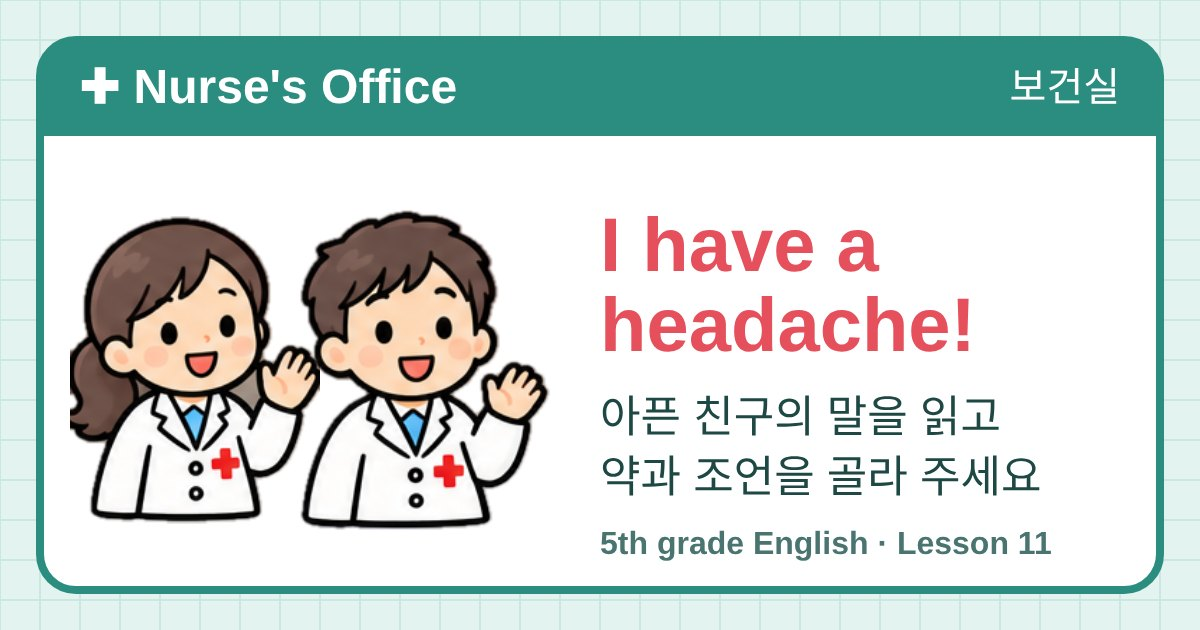
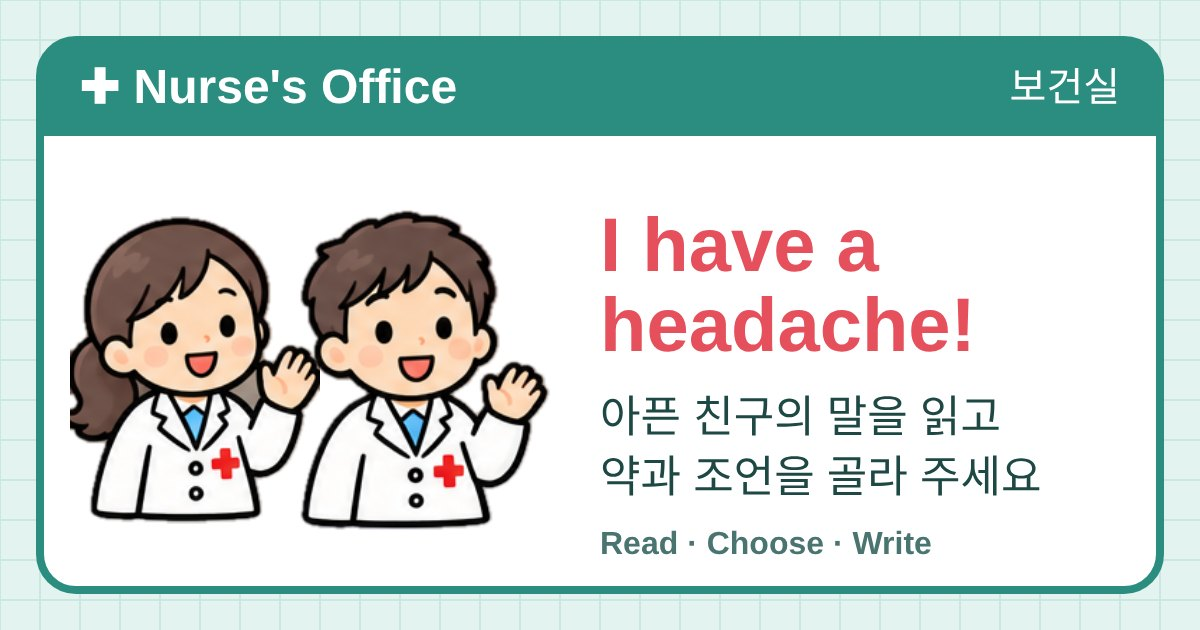
Add files via upload

Changed region(s): [[0.4933, 0.8444, 0.8942, 0.9048]]

diff --git a/index.html b/index.html
@@ -5,7 +5,7 @@
 <meta name="viewport" content="width=device-width,initial-scale=1">
 <title>Nurse's Office</title>
 <meta property="og:title" content="Nurse's Office · 보건실">
-<meta property="og:description" content="5학년 영어 11단원 I Have a Headache · 보건 선생님이 되어 읽고, 고르고, 처방해요">
+<meta property="og:description" content="I Have a Headache · 보건 선생님이 되어 읽고, 고르고, 처방해요">
 <meta property="og:image" content="https://nursesofficepb.vercel.app/og/home.jpg">
 <meta name="twitter:card" content="summary_large_image">
 <link rel="preconnect" href="https://fonts.googleapis.com">
@@ -475,7 +475,7 @@ th{white-space:nowrap;font-family:"Jua";font-weight:400;font-size:17px;color:var
 <script>
 /* =========================================================
    Nurse's Office (보건실)
-   5학년 영어 11단원 I Have a Headache · 만든 이: Tr. Olivia
+   Nurse's Office · 만든 이: Tr. Olivia
    ========================================================= */
 /* ---------- data ---------- */
 const SYM = {
@@ -704,7 +704,7 @@ function home() {
           <button class="ghost ${boardOpen() ? '' : 'shut'}" onclick="boardGate(acSetup)"><span class="em">${boardOpen() ? '🎭' : '🔒'}</span><span>몸으로 말해요 <span class="eni">Act It Out</span><small>친구들의 몸짓을 보고 영어 문장으로 맞혀요<br>Watch and guess the sentence in English</small></span></button>` : ''}
           <button class="red" onclick="writeHub('patient')"><span class="em">📋</span><span>보건실 문진표 <span class="eni">Patient Forms</span><small>문진표를 쓰고, 패들렛에서 친구에게 처방해 줘요<br>Write a form and reply to friends on Padlet</small></span></button>
         </div>
-        <div class="credit">5학년 영어 11. I Have a Headache · 만든 이 Tr. Olivia</div>
+        <div class="credit">만든 이 Tr. Olivia</div>
         <div class="center" style="margin-top:18px">${boardOpen() ? `<button class="ghost small teacher-btn" onclick="guide()">🗂 선생님 안내 · Guide</button><button class="ghost small teacher-btn" style="margin-left:8px" onclick="showQR()">📱 학생용 QR</button>` : ''}
           ${boardOpen() ? `<button class="ghost small teacher-btn" style="margin-left:8px" onclick="boardLock()">🔒 칠판 활동 잠그기 · Lock</button>` : ''}</div>
       </div>
@@ -1053,7 +1053,7 @@ function guide() {
       <p class="muted">패들렛 게시자 이름은 번호나 별명으로 쓰게 하거나, 패들렛의 익명 게시 설정을 쓰면 개인정보를 더 줄일 수 있어요.</p>
       <div class="row" style="margin-top:10px"><button onclick="showQR()">📱 학생용 QR 코드</button><button class="ghost" onclick="boardLock()">🔒 이 기기 칠판 활동 잠그기</button>
         <button class="ghost" onclick="uiConfirm('이 기기에 남은 문진표와 쓰던 글을 지울까요?\\nClear saved forms on this device?', clearLocal)">🧹 이 기기 글 지우기</button></div>
-      <p class="credit" style="margin-top:14px">5학년 영어 11. I Have a Headache · 만든 이 Tr. Olivia</p>
+      <p class="credit" style="margin-top:14px">만든 이 Tr. Olivia</p>
     </div></div>`;
 }
 function clearLocal() { try { Object.keys(localStorage).filter(k => k.startsWith('hn_pub_')).forEach(k => localStorage.removeItem(k)); } catch (e) {} toast('지웠어요\nCleared.'); }

diff --git a/p/alien.html b/p/alien.html
@@ -478,7 +478,7 @@ th{white-space:nowrap;font-family:"Jua";font-weight:400;font-size:17px;color:var
 <script>
 /* =========================================================
    Nurse's Office (보건실)
-   5학년 영어 11단원 I Have a Headache · 만든 이: Tr. Olivia
+   Nurse's Office · 만든 이: Tr. Olivia
    ========================================================= */
 /* ---------- data ---------- */
 const SYM = {
@@ -707,7 +707,7 @@ function home() {
           <button class="ghost ${boardOpen() ? '' : 'shut'}" onclick="boardGate(acSetup)"><span class="em">${boardOpen() ? '🎭' : '🔒'}</span><span>몸으로 말해요 <span class="eni">Act It Out</span><small>친구들의 몸짓을 보고 영어 문장으로 맞혀요<br>Watch and guess the sentence in English</small></span></button>` : ''}
           <button class="red" onclick="writeHub('patient')"><span class="em">📋</span><span>보건실 문진표 <span class="eni">Patient Forms</span><small>문진표를 쓰고, 패들렛에서 친구에게 처방해 줘요<br>Write a form and reply to friends on Padlet</small></span></button>
         </div>
-        <div class="credit">5학년 영어 11. I Have a Headache · 만든 이 Tr. Olivia</div>
+        <div class="credit">만든 이 Tr. Olivia</div>
         <div class="center" style="margin-top:18px">${boardOpen() ? `<button class="ghost small teacher-btn" onclick="guide()">🗂 선생님 안내 · Guide</button><button class="ghost small teacher-btn" style="margin-left:8px" onclick="showQR()">📱 학생용 QR</button>` : ''}
           ${boardOpen() ? `<button class="ghost small teacher-btn" style="margin-left:8px" onclick="boardLock()">🔒 칠판 활동 잠그기 · Lock</button>` : ''}</div>
       </div>
@@ -1056,7 +1056,7 @@ function guide() {
       <p class="muted">패들렛 게시자 이름은 번호나 별명으로 쓰게 하거나, 패들렛의 익명 게시 설정을 쓰면 개인정보를 더 줄일 수 있어요.</p>
       <div class="row" style="margin-top:10px"><button onclick="showQR()">📱 학생용 QR 코드</button><button class="ghost" onclick="boardLock()">🔒 이 기기 칠판 활동 잠그기</button>
         <button class="ghost" onclick="uiConfirm('이 기기에 남은 문진표와 쓰던 글을 지울까요?\\nClear saved forms on this device?', clearLocal)">🧹 이 기기 글 지우기</button></div>
-      <p class="credit" style="margin-top:14px">5학년 영어 11. I Have a Headache · 만든 이 Tr. Olivia</p>
+      <p class="credit" style="margin-top:14px">만든 이 Tr. Olivia</p>
     </div></div>`;
 }
 function clearLocal() { try { Object.keys(localStorage).filter(k => k.startsWith('hn_pub_')).forEach(k => localStorage.removeItem(k)); } catch (e) {} toast('지웠어요\nCleared.'); }

diff --git a/p/cook.html b/p/cook.html
@@ -478,7 +478,7 @@ th{white-space:nowrap;font-family:"Jua";font-weight:400;font-size:17px;color:var
 <script>
 /* =========================================================
    Nurse's Office (보건실)
-   5학년 영어 11단원 I Have a Headache · 만든 이: Tr. Olivia
+   Nurse's Office · 만든 이: Tr. Olivia
    ========================================================= */
 /* ---------- data ---------- */
 const SYM = {
@@ -707,7 +707,7 @@ function home() {
           <button class="ghost ${boardOpen() ? '' : 'shut'}" onclick="boardGate(acSetup)"><span class="em">${boardOpen() ? '🎭' : '🔒'}</span><span>몸으로 말해요 <span class="eni">Act It Out</span><small>친구들의 몸짓을 보고 영어 문장으로 맞혀요<br>Watch and guess the sentence in English</small></span></button>` : ''}
           <button class="red" onclick="writeHub('patient')"><span class="em">📋</span><span>보건실 문진표 <span class="eni">Patient Forms</span><small>문진표를 쓰고, 패들렛에서 친구에게 처방해 줘요<br>Write a form and reply to friends on Padlet</small></span></button>
         </div>
-        <div class="credit">5학년 영어 11. I Have a Headache · 만든 이 Tr. Olivia</div>
+        <div class="credit">만든 이 Tr. Olivia</div>
         <div class="center" style="margin-top:18px">${boardOpen() ? `<button class="ghost small teacher-btn" onclick="guide()">🗂 선생님 안내 · Guide</button><button class="ghost small teacher-btn" style="margin-left:8px" onclick="showQR()">📱 학생용 QR</button>` : ''}
           ${boardOpen() ? `<button class="ghost small teacher-btn" style="margin-left:8px" onclick="boardLock()">🔒 칠판 활동 잠그기 · Lock</button>` : ''}</div>
       </div>
@@ -1056,7 +1056,7 @@ function guide() {
       <p class="muted">패들렛 게시자 이름은 번호나 별명으로 쓰게 하거나, 패들렛의 익명 게시 설정을 쓰면 개인정보를 더 줄일 수 있어요.</p>
       <div class="row" style="margin-top:10px"><button onclick="showQR()">📱 학생용 QR 코드</button><button class="ghost" onclick="boardLock()">🔒 이 기기 칠판 활동 잠그기</button>
         <button class="ghost" onclick="uiConfirm('이 기기에 남은 문진표와 쓰던 글을 지울까요?\\nClear saved forms on this device?', clearLocal)">🧹 이 기기 글 지우기</button></div>
-      <p class="credit" style="margin-top:14px">5학년 영어 11. I Have a Headache · 만든 이 Tr. Olivia</p>
+      <p class="credit" style="margin-top:14px">만든 이 Tr. Olivia</p>
     </div></div>`;
 }
 function clearLocal() { try { Object.keys(localStorage).filter(k => k.startsWith('hn_pub_')).forEach(k => localStorage.removeItem(k)); } catch (e) {} toast('지웠어요\nCleared.'); }

diff --git a/p/dino.html b/p/dino.html
@@ -478,7 +478,7 @@ th{white-space:nowrap;font-family:"Jua";font-weight:400;font-size:17px;color:var
 <script>
 /* =========================================================
    Nurse's Office (보건실)
-   5학년 영어 11단원 I Have a Headache · 만든 이: Tr. Olivia
+   Nurse's Office · 만든 이: Tr. Olivia
    ========================================================= */
 /* ---------- data ---------- */
 const SYM = {
@@ -707,7 +707,7 @@ function home() {
           <button class="ghost ${boardOpen() ? '' : 'shut'}" onclick="boardGate(acSetup)"><span class="em">${boardOpen() ? '🎭' : '🔒'}</span><span>몸으로 말해요 <span class="eni">Act It Out</span><small>친구들의 몸짓을 보고 영어 문장으로 맞혀요<br>Watch and guess the sentence in English</small></span></button>` : ''}
           <button class="red" onclick="writeHub('patient')"><span class="em">📋</span><span>보건실 문진표 <span class="eni">Patient Forms</span><small>문진표를 쓰고, 패들렛에서 친구에게 처방해 줘요<br>Write a form and reply to friends on Padlet</small></span></button>
         </div>
-        <div class="credit">5학년 영어 11. I Have a Headache · 만든 이 Tr. Olivia</div>
+        <div class="credit">만든 이 Tr. Olivia</div>
         <div class="center" style="margin-top:18px">${boardOpen() ? `<button class="ghost small teacher-btn" onclick="guide()">🗂 선생님 안내 · Guide</button><button class="ghost small teacher-btn" style="margin-left:8px" onclick="showQR()">📱 학생용 QR</button>` : ''}
           ${boardOpen() ? `<button class="ghost small teacher-btn" style="margin-left:8px" onclick="boardLock()">🔒 칠판 활동 잠그기 · Lock</button>` : ''}</div>
       </div>
@@ -1056,7 +1056,7 @@ function guide() {
       <p class="muted">패들렛 게시자 이름은 번호나 별명으로 쓰게 하거나, 패들렛의 익명 게시 설정을 쓰면 개인정보를 더 줄일 수 있어요.</p>
       <div class="row" style="margin-top:10px"><button onclick="showQR()">📱 학생용 QR 코드</button><button class="ghost" onclick="boardLock()">🔒 이 기기 칠판 활동 잠그기</button>
         <button class="ghost" onclick="uiConfirm('이 기기에 남은 문진표와 쓰던 글을 지울까요?\\nClear saved forms on this device?', clearLocal)">🧹 이 기기 글 지우기</button></div>
-      <p class="credit" style="margin-top:14px">5학년 영어 11. I Have a Headache · 만든 이 Tr. Olivia</p>
+      <p class="credit" style="margin-top:14px">만든 이 Tr. Olivia</p>
     </div></div>`;
 }
 function clearLocal() { try { Object.keys(localStorage).filter(k => k.startsWith('hn_pub_')).forEach(k => localStorage.removeItem(k)); } catch (e) {} toast('지웠어요\nCleared.'); }

diff --git a/p/ghost.html b/p/ghost.html
@@ -478,7 +478,7 @@ th{white-space:nowrap;font-family:"Jua";font-weight:400;font-size:17px;color:var
 <script>
 /* =========================================================
    Nurse's Office (보건실)
-   5학년 영어 11단원 I Have a Headache · 만든 이: Tr. Olivia
+   Nurse's Office · 만든 이: Tr. Olivia
    ========================================================= */
 /* ---------- data ---------- */
 const SYM = {
@@ -707,7 +707,7 @@ function home() {
           <button class="ghost ${boardOpen() ? '' : 'shut'}" onclick="boardGate(acSetup)"><span class="em">${boardOpen() ? '🎭' : '🔒'}</span><span>몸으로 말해요 <span class="eni">Act It Out</span><small>친구들의 몸짓을 보고 영어 문장으로 맞혀요<br>Watch and guess the sentence in English</small></span></button>` : ''}
           <button class="red" onclick="writeHub('patient')"><span class="em">📋</span><span>보건실 문진표 <span class="eni">Patient Forms</span><small>문진표를 쓰고, 패들렛에서 친구에게 처방해 줘요<br>Write a form and reply to friends on Padlet</small></span></button>
         </div>
-        <div class="credit">5학년 영어 11. I Have a Headache · 만든 이 Tr. Olivia</div>
+        <div class="credit">만든 이 Tr. Olivia</div>
         <div class="center" style="margin-top:18px">${boardOpen() ? `<button class="ghost small teacher-btn" onclick="guide()">🗂 선생님 안내 · Guide</button><button class="ghost small teacher-btn" style="margin-left:8px" onclick="showQR()">📱 학생용 QR</button>` : ''}
           ${boardOpen() ? `<button class="ghost small teacher-btn" style="margin-left:8px" onclick="boardLock()">🔒 칠판 활동 잠그기 · Lock</button>` : ''}</div>
       </div>
@@ -1056,7 +1056,7 @@ function guide() {
       <p class="muted">패들렛 게시자 이름은 번호나 별명으로 쓰게 하거나, 패들렛의 익명 게시 설정을 쓰면 개인정보를 더 줄일 수 있어요.</p>
       <div class="row" style="margin-top:10px"><button onclick="showQR()">📱 학생용 QR 코드</button><button class="ghost" onclick="boardLock()">🔒 이 기기 칠판 활동 잠그기</button>
         <button class="ghost" onclick="uiConfirm('이 기기에 남은 문진표와 쓰던 글을 지울까요?\\nClear saved forms on this device?', clearLocal)">🧹 이 기기 글 지우기</button></div>
-      <p class="credit" style="margin-top:14px">5학년 영어 11. I Have a Headache · 만든 이 Tr. Olivia</p>
+      <p class="credit" style="margin-top:14px">만든 이 Tr. Olivia</p>
     </div></div>`;
 }
 function clearLocal() { try { Object.keys(localStorage).filter(k => k.startsWith('hn_pub_')).forEach(k => localStorage.removeItem(k)); } catch (e) {} toast('지웠어요\nCleared.'); }

diff --git a/p/hero.html b/p/hero.html
@@ -478,7 +478,7 @@ th{white-space:nowrap;font-family:"Jua";font-weight:400;font-size:17px;color:var
 <script>
 /* =========================================================
    Nurse's Office (보건실)
-   5학년 영어 11단원 I Have a Headache · 만든 이: Tr. Olivia
+   Nurse's Office · 만든 이: Tr. Olivia
    ========================================================= */
 /* ---------- data ---------- */
 const SYM = {
@@ -707,7 +707,7 @@ function home() {
           <button class="ghost ${boardOpen() ? '' : 'shut'}" onclick="boardGate(acSetup)"><span class="em">${boardOpen() ? '🎭' : '🔒'}</span><span>몸으로 말해요 <span class="eni">Act It Out</span><small>친구들의 몸짓을 보고 영어 문장으로 맞혀요<br>Watch and guess the sentence in English</small></span></button>` : ''}
           <button class="red" onclick="writeHub('patient')"><span class="em">📋</span><span>보건실 문진표 <span class="eni">Patient Forms</span><small>문진표를 쓰고, 패들렛에서 친구에게 처방해 줘요<br>Write a form and reply to friends on Padlet</small></span></button>
         </div>
-        <div class="credit">5학년 영어 11. I Have a Headache · 만든 이 Tr. Olivia</div>
+        <div class="credit">만든 이 Tr. Olivia</div>
         <div class="center" style="margin-top:18px">${boardOpen() ? `<button class="ghost small teacher-btn" onclick="guide()">🗂 선생님 안내 · Guide</button><button class="ghost small teacher-btn" style="margin-left:8px" onclick="showQR()">📱 학생용 QR</button>` : ''}
           ${boardOpen() ? `<button class="ghost small teacher-btn" style="margin-left:8px" onclick="boardLock()">🔒 칠판 활동 잠그기 · Lock</button>` : ''}</div>
       </div>
@@ -1056,7 +1056,7 @@ function guide() {
       <p class="muted">패들렛 게시자 이름은 번호나 별명으로 쓰게 하거나, 패들렛의 익명 게시 설정을 쓰면 개인정보를 더 줄일 수 있어요.</p>
       <div class="row" style="margin-top:10px"><button onclick="showQR()">📱 학생용 QR 코드</button><button class="ghost" onclick="boardLock()">🔒 이 기기 칠판 활동 잠그기</button>
         <button class="ghost" onclick="uiConfirm('이 기기에 남은 문진표와 쓰던 글을 지울까요?\\nClear saved forms on this device?', clearLocal)">🧹 이 기기 글 지우기</button></div>
-      <p class="credit" style="margin-top:14px">5학년 영어 11. I Have a Headache · 만든 이 Tr. Olivia</p>
+      <p class="credit" style="margin-top:14px">만든 이 Tr. Olivia</p>
     </div></div>`;
 }
 function clearLocal() { try { Object.keys(localStorage).filter(k => k.startsWith('hn_pub_')).forEach(k => localStorage.removeItem(k)); } catch (e) {} toast('지웠어요\nCleared.'); }

diff --git a/p/kid1.html b/p/kid1.html
@@ -478,7 +478,7 @@ th{white-space:nowrap;font-family:"Jua";font-weight:400;font-size:17px;color:var
 <script>
 /* =========================================================
    Nurse's Office (보건실)
-   5학년 영어 11단원 I Have a Headache · 만든 이: Tr. Olivia
+   Nurse's Office · 만든 이: Tr. Olivia
    ========================================================= */
 /* ---------- data ---------- */
 const SYM = {
@@ -707,7 +707,7 @@ function home() {
           <button class="ghost ${boardOpen() ? '' : 'shut'}" onclick="boardGate(acSetup)"><span class="em">${boardOpen() ? '🎭' : '🔒'}</span><span>몸으로 말해요 <span class="eni">Act It Out</span><small>친구들의 몸짓을 보고 영어 문장으로 맞혀요<br>Watch and guess the sentence in English</small></span></button>` : ''}
           <button class="red" onclick="writeHub('patient')"><span class="em">📋</span><span>보건실 문진표 <span class="eni">Patient Forms</span><small>문진표를 쓰고, 패들렛에서 친구에게 처방해 줘요<br>Write a form and reply to friends on Padlet</small></span></button>
         </div>
-        <div class="credit">5학년 영어 11. I Have a Headache · 만든 이 Tr. Olivia</div>
+        <div class="credit">만든 이 Tr. Olivia</div>
         <div class="center" style="margin-top:18px">${boardOpen() ? `<button class="ghost small teacher-btn" onclick="guide()">🗂 선생님 안내 · Guide</button><button class="ghost small teacher-btn" style="margin-left:8px" onclick="showQR()">📱 학생용 QR</button>` : ''}
           ${boardOpen() ? `<button class="ghost small teacher-btn" style="margin-left:8px" onclick="boardLock()">🔒 칠판 활동 잠그기 · Lock</button>` : ''}</div>
       </div>
@@ -1056,7 +1056,7 @@ function guide() {
       <p class="muted">패들렛 게시자 이름은 번호나 별명으로 쓰게 하거나, 패들렛의 익명 게시 설정을 쓰면 개인정보를 더 줄일 수 있어요.</p>
       <div class="row" style="margin-top:10px"><button onclick="showQR()">📱 학생용 QR 코드</button><button class="ghost" onclick="boardLock()">🔒 이 기기 칠판 활동 잠그기</button>
         <button class="ghost" onclick="uiConfirm('이 기기에 남은 문진표와 쓰던 글을 지울까요?\\nClear saved forms on this device?', clearLocal)">🧹 이 기기 글 지우기</button></div>
-      <p class="credit" style="margin-top:14px">5학년 영어 11. I Have a Headache · 만든 이 Tr. Olivia</p>
+      <p class="credit" style="margin-top:14px">만든 이 Tr. Olivia</p>
     </div></div>`;
 }
 function clearLocal() { try { Object.keys(localStorage).filter(k => k.startsWith('hn_pub_')).forEach(k => localStorage.removeItem(k)); } catch (e) {} toast('지웠어요\nCleared.'); }

diff --git a/p/kid2.html b/p/kid2.html
@@ -478,7 +478,7 @@ th{white-space:nowrap;font-family:"Jua";font-weight:400;font-size:17px;color:var
 <script>
 /* =========================================================
    Nurse's Office (보건실)
-   5학년 영어 11단원 I Have a Headache · 만든 이: Tr. Olivia
+   Nurse's Office · 만든 이: Tr. Olivia
    ========================================================= */
 /* ---------- data ---------- */
 const SYM = {
@@ -707,7 +707,7 @@ function home() {
           <button class="ghost ${boardOpen() ? '' : 'shut'}" onclick="boardGate(acSetup)"><span class="em">${boardOpen() ? '🎭' : '🔒'}</span><span>몸으로 말해요 <span class="eni">Act It Out</span><small>친구들의 몸짓을 보고 영어 문장으로 맞혀요<br>Watch and guess the sentence in English</small></span></button>` : ''}
           <button class="red" onclick="writeHub('patient')"><span class="em">📋</span><span>보건실 문진표 <span class="eni">Patient Forms</span><small>문진표를 쓰고, 패들렛에서 친구에게 처방해 줘요<br>Write a form and reply to friends on Padlet</small></span></button>
         </div>
-        <div class="credit">5학년 영어 11. I Have a Headache · 만든 이 Tr. Olivia</div>
+        <div class="credit">만든 이 Tr. Olivia</div>
         <div class="center" style="margin-top:18px">${boardOpen() ? `<button class="ghost small teacher-btn" onclick="guide()">🗂 선생님 안내 · Guide</button><button class="ghost small teacher-btn" style="margin-left:8px" onclick="showQR()">📱 학생용 QR</button>` : ''}
           ${boardOpen() ? `<button class="ghost small teacher-btn" style="margin-left:8px" onclick="boardLock()">🔒 칠판 활동 잠그기 · Lock</button>` : ''}</div>
       </div>
@@ -1056,7 +1056,7 @@ function guide() {
       <p class="muted">패들렛 게시자 이름은 번호나 별명으로 쓰게 하거나, 패들렛의 익명 게시 설정을 쓰면 개인정보를 더 줄일 수 있어요.</p>
       <div class="row" style="margin-top:10px"><button onclick="showQR()">📱 학생용 QR 코드</button><button class="ghost" onclick="boardLock()">🔒 이 기기 칠판 활동 잠그기</button>
         <button class="ghost" onclick="uiConfirm('이 기기에 남은 문진표와 쓰던 글을 지울까요?\\nClear saved forms on this device?', clearLocal)">🧹 이 기기 글 지우기</button></div>
-      <p class="credit" style="margin-top:14px">5학년 영어 11. I Have a Headache · 만든 이 Tr. Olivia</p>
+      <p class="credit" style="margin-top:14px">만든 이 Tr. Olivia</p>
     </div></div>`;
 }
 function clearLocal() { try { Object.keys(localStorage).filter(k => k.startsWith('hn_pub_')).forEach(k => localStorage.removeItem(k)); } catch (e) {} toast('지웠어요\nCleared.'); }

diff --git a/p/kid3.html b/p/kid3.html
@@ -478,7 +478,7 @@ th{white-space:nowrap;font-family:"Jua";font-weight:400;font-size:17px;color:var
 <script>
 /* =========================================================
    Nurse's Office (보건실)
-   5학년 영어 11단원 I Have a Headache · 만든 이: Tr. Olivia
+   Nurse's Office · 만든 이: Tr. Olivia
    ========================================================= */
 /* ---------- data ---------- */
 const SYM = {
@@ -707,7 +707,7 @@ function home() {
           <button class="ghost ${boardOpen() ? '' : 'shut'}" onclick="boardGate(acSetup)"><span class="em">${boardOpen() ? '🎭' : '🔒'}</span><span>몸으로 말해요 <span class="eni">Act It Out</span><small>친구들의 몸짓을 보고 영어 문장으로 맞혀요<br>Watch and guess the sentence in English</small></span></button>` : ''}
           <button class="red" onclick="writeHub('patient')"><span class="em">📋</span><span>보건실 문진표 <span class="eni">Patient Forms</span><small>문진표를 쓰고, 패들렛에서 친구에게 처방해 줘요<br>Write a form and reply to friends on Padlet</small></span></button>
         </div>
-        <div class="credit">5학년 영어 11. I Have a Headache · 만든 이 Tr. Olivia</div>
+        <div class="credit">만든 이 Tr. Olivia</div>
         <div class="center" style="margin-top:18px">${boardOpen() ? `<button class="ghost small teacher-btn" onclick="guide()">🗂 선생님 안내 · Guide</button><button class="ghost small teacher-btn" style="margin-left:8px" onclick="showQR()">📱 학생용 QR</button>` : ''}
           ${boardOpen() ? `<button class="ghost small teacher-btn" style="margin-left:8px" onclick="boardLock()">🔒 칠판 활동 잠그기 · Lock</button>` : ''}</div>
       </div>
@@ -1056,7 +1056,7 @@ function guide() {
       <p class="muted">패들렛 게시자 이름은 번호나 별명으로 쓰게 하거나, 패들렛의 익명 게시 설정을 쓰면 개인정보를 더 줄일 수 있어요.</p>
       <div class="row" style="margin-top:10px"><button onclick="showQR()">📱 학생용 QR 코드</button><button class="ghost" onclick="boardLock()">🔒 이 기기 칠판 활동 잠그기</button>
         <button class="ghost" onclick="uiConfirm('이 기기에 남은 문진표와 쓰던 글을 지울까요?\\nClear saved forms on this device?', clearLocal)">🧹 이 기기 글 지우기</button></div>
-      <p class="credit" style="margin-top:14px">5학년 영어 11. I Have a Headache · 만든 이 Tr. Olivia</p>
+      <p class="credit" style="margin-top:14px">만든 이 Tr. Olivia</p>
     </div></div>`;
 }
 function clearLocal() { try { Object.keys(localStorage).filter(k => k.startsWith('hn_pub_')).forEach(k => localStorage.removeItem(k)); } catch (e) {} toast('지웠어요\nCleared.'); }

diff --git a/p/kid4.html b/p/kid4.html
@@ -478,7 +478,7 @@ th{white-space:nowrap;font-family:"Jua";font-weight:400;font-size:17px;color:var
 <script>
 /* =========================================================
    Nurse's Office (보건실)
-   5학년 영어 11단원 I Have a Headache · 만든 이: Tr. Olivia
+   Nurse's Office · 만든 이: Tr. Olivia
    ========================================================= */
 /* ---------- data ---------- */
 const SYM = {
@@ -707,7 +707,7 @@ function home() {
           <button class="ghost ${boardOpen() ? '' : 'shut'}" onclick="boardGate(acSetup)"><span class="em">${boardOpen() ? '🎭' : '🔒'}</span><span>몸으로 말해요 <span class="eni">Act It Out</span><small>친구들의 몸짓을 보고 영어 문장으로 맞혀요<br>Watch and guess the sentence in English</small></span></button>` : ''}
           <button class="red" onclick="writeHub('patient')"><span class="em">📋</span><span>보건실 문진표 <span class="eni">Patient Forms</span><small>문진표를 쓰고, 패들렛에서 친구에게 처방해 줘요<br>Write a form and reply to friends on Padlet</small></span></button>
         </div>
-        <div class="credit">5학년 영어 11. I Have a Headache · 만든 이 Tr. Olivia</div>
+        <div class="credit">만든 이 Tr. Olivia</div>
         <div class="center" style="margin-top:18px">${boardOpen() ? `<button class="ghost small teacher-btn" onclick="guide()">🗂 선생님 안내 · Guide</button><button class="ghost small teacher-btn" style="margin-left:8px" onclick="showQR()">📱 학생용 QR</button>` : ''}
           ${boardOpen() ? `<button class="ghost small teacher-btn" style="margin-left:8px" onclick="boardLock()">🔒 칠판 활동 잠그기 · Lock</button>` : ''}</div>
       </div>
@@ -1056,7 +1056,7 @@ function guide() {
       <p class="muted">패들렛 게시자 이름은 번호나 별명으로 쓰게 하거나, 패들렛의 익명 게시 설정을 쓰면 개인정보를 더 줄일 수 있어요.</p>
       <div class="row" style="margin-top:10px"><button onclick="showQR()">📱 학생용 QR 코드</button><button class="ghost" onclick="boardLock()">🔒 이 기기 칠판 활동 잠그기</button>
         <button class="ghost" onclick="uiConfirm('이 기기에 남은 문진표와 쓰던 글을 지울까요?\\nClear saved forms on this device?', clearLocal)">🧹 이 기기 글 지우기</button></div>
-      <p class="credit" style="margin-top:14px">5학년 영어 11. I Have a Headache · 만든 이 Tr. Olivia</p>
+      <p class="credit" style="margin-top:14px">만든 이 Tr. Olivia</p>
     </div></div>`;
 }
 function clearLocal() { try { Object.keys(localStorage).filter(k => k.startsWith('hn_pub_')).forEach(k => localStorage.removeItem(k)); } catch (e) {} toast('지웠어요\nCleared.'); }

diff --git a/p/kid5.html b/p/kid5.html
@@ -478,7 +478,7 @@ th{white-space:nowrap;font-family:"Jua";font-weight:400;font-size:17px;color:var
 <script>
 /* =========================================================
    Nurse's Office (보건실)
-   5학년 영어 11단원 I Have a Headache · 만든 이: Tr. Olivia
+   Nurse's Office · 만든 이: Tr. Olivia
    ========================================================= */
 /* ---------- data ---------- */
 const SYM = {
@@ -707,7 +707,7 @@ function home() {
           <button class="ghost ${boardOpen() ? '' : 'shut'}" onclick="boardGate(acSetup)"><span class="em">${boardOpen() ? '🎭' : '🔒'}</span><span>몸으로 말해요 <span class="eni">Act It Out</span><small>친구들의 몸짓을 보고 영어 문장으로 맞혀요<br>Watch and guess the sentence in English</small></span></button>` : ''}
           <button class="red" onclick="writeHub('patient')"><span class="em">📋</span><span>보건실 문진표 <span class="eni">Patient Forms</span><small>문진표를 쓰고, 패들렛에서 친구에게 처방해 줘요<br>Write a form and reply to friends on Padlet</small></span></button>
         </div>
-        <div class="credit">5학년 영어 11. I Have a Headache · 만든 이 Tr. Olivia</div>
+        <div class="credit">만든 이 Tr. Olivia</div>
         <div class="center" style="margin-top:18px">${boardOpen() ? `<button class="ghost small teacher-btn" onclick="guide()">🗂 선생님 안내 · Guide</button><button class="ghost small teacher-btn" style="margin-left:8px" onclick="showQR()">📱 학생용 QR</button>` : ''}
           ${boardOpen() ? `<button class="ghost small teacher-btn" style="margin-left:8px" onclick="boardLock()">🔒 칠판 활동 잠그기 · Lock</button>` : ''}</div>
       </div>
@@ -1056,7 +1056,7 @@ function guide() {
       <p class="muted">패들렛 게시자 이름은 번호나 별명으로 쓰게 하거나, 패들렛의 익명 게시 설정을 쓰면 개인정보를 더 줄일 수 있어요.</p>
       <div class="row" style="margin-top:10px"><button onclick="showQR()">📱 학생용 QR 코드</button><button class="ghost" onclick="boardLock()">🔒 이 기기 칠판 활동 잠그기</button>
         <button class="ghost" onclick="uiConfirm('이 기기에 남은 문진표와 쓰던 글을 지울까요?\\nClear saved forms on this device?', clearLocal)">🧹 이 기기 글 지우기</button></div>
-      <p class="credit" style="margin-top:14px">5학년 영어 11. I Have a Headache · 만든 이 Tr. Olivia</p>
+      <p class="credit" style="margin-top:14px">만든 이 Tr. Olivia</p>
     </div></div>`;
 }
 function clearLocal() { try { Object.keys(localStorage).filter(k => k.startsWith('hn_pub_')).forEach(k => localStorage.removeItem(k)); } catch (e) {} toast('지웠어요\nCleared.'); }

diff --git a/p/kid6.html b/p/kid6.html
@@ -478,7 +478,7 @@ th{white-space:nowrap;font-family:"Jua";font-weight:400;font-size:17px;color:var
 <script>
 /* =========================================================
    Nurse's Office (보건실)
-   5학년 영어 11단원 I Have a Headache · 만든 이: Tr. Olivia
+   Nurse's Office · 만든 이: Tr. Olivia
    ========================================================= */
 /* ---------- data ---------- */
 const SYM = {
@@ -707,7 +707,7 @@ function home() {
           <button class="ghost ${boardOpen() ? '' : 'shut'}" onclick="boardGate(acSetup)"><span class="em">${boardOpen() ? '🎭' : '🔒'}</span><span>몸으로 말해요 <span class="eni">Act It Out</span><small>친구들의 몸짓을 보고 영어 문장으로 맞혀요<br>Watch and guess the sentence in English</small></span></button>` : ''}
           <button class="red" onclick="writeHub('patient')"><span class="em">📋</span><span>보건실 문진표 <span class="eni">Patient Forms</span><small>문진표를 쓰고, 패들렛에서 친구에게 처방해 줘요<br>Write a form and reply to friends on Padlet</small></span></button>
         </div>
-        <div class="credit">5학년 영어 11. I Have a Headache · 만든 이 Tr. Olivia</div>
+        <div class="credit">만든 이 Tr. Olivia</div>
         <div class="center" style="margin-top:18px">${boardOpen() ? `<button class="ghost small teacher-btn" onclick="guide()">🗂 선생님 안내 · Guide</button><button class="ghost small teacher-btn" style="margin-left:8px" onclick="showQR()">📱 학생용 QR</button>` : ''}
           ${boardOpen() ? `<button class="ghost small teacher-btn" style="margin-left:8px" onclick="boardLock()">🔒 칠판 활동 잠그기 · Lock</button>` : ''}</div>
       </div>
@@ -1056,7 +1056,7 @@ function guide() {
       <p class="muted">패들렛 게시자 이름은 번호나 별명으로 쓰게 하거나, 패들렛의 익명 게시 설정을 쓰면 개인정보를 더 줄일 수 있어요.</p>
       <div class="row" style="margin-top:10px"><button onclick="showQR()">📱 학생용 QR 코드</button><button class="ghost" onclick="boardLock()">🔒 이 기기 칠판 활동 잠그기</button>
         <button class="ghost" onclick="uiConfirm('이 기기에 남은 문진표와 쓰던 글을 지울까요?\\nClear saved forms on this device?', clearLocal)">🧹 이 기기 글 지우기</button></div>
-      <p class="credit" style="margin-top:14px">5학년 영어 11. I Have a Headache · 만든 이 Tr. Olivia</p>
+      <p class="credit" style="margin-top:14px">만든 이 Tr. Olivia</p>
     </div></div>`;
 }
 function clearLocal() { try { Object.keys(localStorage).filter(k => k.startsWith('hn_pub_')).forEach(k => localStorage.removeItem(k)); } catch (e) {} toast('지웠어요\nCleared.'); }
